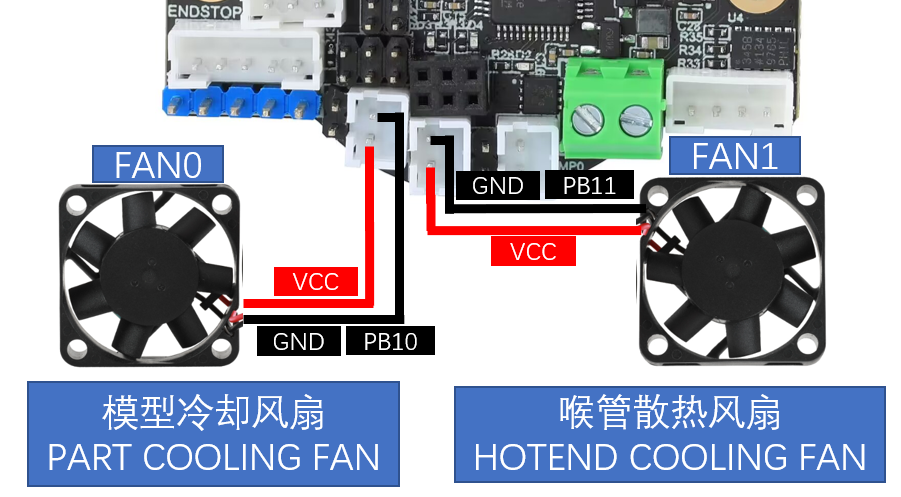
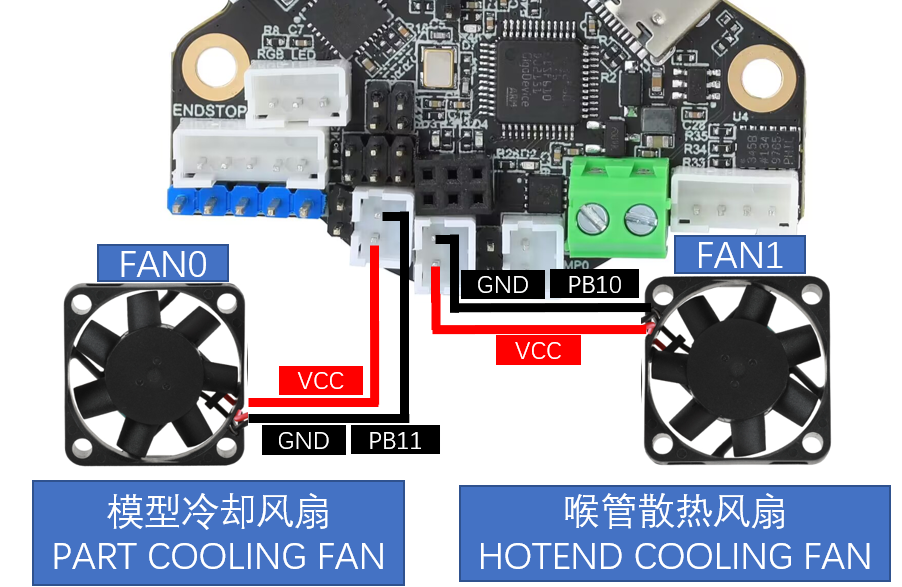
d5接线图更新&sht36v2接线图及文档修复

diff --git a/docs/board/fly_d5/wiring.md b/docs/board/fly_d5/wiring.md
@@ -1,1 +1,150 @@
-**正在制作**
+# 5. E3 v2接线
+
+> [!TIP]
+> 此教程以Voron 0.1为例介绍接线方法，请结合自己的实际使用情况接线
+
+## 5.1 接口图
+
+![interface](../../images/boards/fly_d5/interface.png)
+
+## 5.2 电源接线
+
+![power](../../images/boards/fly_d5/power.png)
+
+## 5.3  步进电机接线
+
+### 5.3.1 主板驱动跳线
+
+**STEP/DIR模式。**在这个模式下，通过使用跳线帽来设置细分，通过调节电位器来调整电流。最常见的是A4988驱动，使用这类驱动需要查询厂家提供的细分配置表，然后通过跳线帽来设置细分。
+
+**UART模式。**最常见的使用这种模式的驱动有：TMC2208、TMC2209、TMC2226等。这类驱动芯片可以与主控进行UART异步串行通信，可以通过修改配置文件来设置驱动的细分、运行电流、静音模式等。
+
+**SPI模式。**最常见的使用这种模式的驱动有：TMC5160、TMC2230等。这类驱动芯片通过spi与主控同步串行通信，同样的也可以通过修改配置文件来设置驱动的细分、运行电流、静音模式等。
+
+<img src="../../images/boards/fly_c8/dirve_dip.png" alt="dirve_dip" style="zoom:70%;" />
+
+### 5.3.2 驱动的安装
+
+驱动在安装前需要进行相应的检查，以免对驱动或主板造成损坏。
+
+**FLY驱动：**如果不使用无限位归零功能，请将拨码开关拨到1的位置；相反如果要使用无限位归零功能，请将拨码开关拨到ON的位置。
+
+![fly2209](../../images/boards/fly_super8/fly2209.png)
+
+**非FLY驱动：**如果是非FLY的驱动（下图为mks 2209），在安装之前需要剪掉图中两个引脚（这两个引脚为无限位归零引脚，不使用无限位归零功能则需要剪掉）。不同厂家的设计可能会有所区别，使用前请咨询相应厂家。
+
+![mks2209](../../images/boards/fly_super8/mks2209.png)
+
+**注意！！！ 安装驱动模块时，一定要保证插入的方向正确，即EN引脚在左上角，否则会损坏驱动甚至主板！！！注意给驱动贴好散热片！！！**
+
+<img src="../../images/boards/fly_c8/tmc_install.png" alt="tmc_install" style="zoom:80%;" />
+
+### 5.3.3 步进电机接线
+
+在3D打印机中，最常用的是两相四线步进电机，其原理如图所示。鉴别步进电机线序有两种方法：
+
+1. 短接步进电机四根线中任意两根线，用手转动电机轴，如果转动阻力很大，则这两根线为同一组线圈，即1A和1B或者2A和2B。如果和没有短接一样转起来很轻松，说明这两根线不是同一组线圈。
+
+2. 使用万用表的蜂鸣器档，测量四根线中任意两根，如果蜂鸣器响，则说明这两根线为同一组。反之，则不是同一组，需要更换其中一根线再次测量。
+
+![motorSCH](../../images/boards/fly_super8/motorSCH.png)
+
+<img src="../../images/boards/fly_d5/motor.png" alt="motor" style="zoom:80%;" />
+
+## 5.4  加热棒接线
+
+<img src="../../images/boards/fly_d5/heater.png" alt="heater" style="zoom:80%;" />
+
+## 5.5  热床接线
+
+**交流热床：**固态继电器在接线时，请注意输入和输出别接错了。
+
+<img src="../../images/boards/fly_super8/relay.png" alt="relay" style="zoom:75%;" />
+
+<img src="../../images/boards/fly_d5/ACbed.png" alt="ACbed" style="zoom:65%;" />
+
+**直流热床：**板载MOS接直流热床时请注意使用功率，直流热床最大电流不能超过10A。如果超过10A，建议使用外接MOS模块来使用热床，否则可能会对主板造成不可逆的损伤。
+
+<img src="../../images/boards/fly_d5/DCbed.png" alt="DCbed" style="zoom:65%;" />
+
+## 5.6  热敏电阻接线
+
+Super8提供了六路ADC接口，即可以接入六路热敏。热敏的接线方法如下图。热敏电阻的类型请咨询购买商家。
+
+如果为fly购买的（如下图所示），请将sensor_type 配置为：**ATC Semitec 104GT-2**。
+
+![semitec1](../../images/boards/fly_super8/semitec1.png)
+
+如果为常规的NTC 100K（如下图所示），请将sensor_type 配置为：**Generic 3950**
+
+<img src="../../images/boards/fly_super8/semitec2.png" alt="semitec2" style="zoom:70%;" />
+
+<img src="../../images/boards/fly_super8/semitec3.png" alt="semitec3" style="zoom:80%;" />
+
+**喷头热敏、热床热敏：**
+
+****
+
+<img src="../../images/boards/fly_d5/thermmistor.png" alt="thermmistor" style="zoom:80%;" />
+
+## 5.7 风扇接线
+
+**风扇接线。**
+
+> [!TIP]
+>
+> 下图红色框图框出来的接口，上下接口为同一个引脚控制的可控风扇，即一拖二
+
+<img src="../../images/boards/fly_d5/fan.png" alt="fan" style="zoom:80%;" />
+
+## 5.8  限位开关接线
+
+限位开关有常开（NO）和常闭（NC）两种。一般在3D打印机上，建议使用**常闭（NC）**，这样在限位开关线路出现问题时，系统会及时报错，可以避免一些不必要的撞车，避免损坏打印机。
+
+<img src="../../images/boards/fly_d5/endstop.png" alt="endstop" style="zoom:80%;" />
+
+## 5.9 调平传感器接线
+
+### 5.9.1 接近开关接线
+
+VORON官方建议是使用欧姆龙Omron TL-Q5MC（之前官方推荐的是PL08N，两者原理一样，只是探测距离不一样）传感器来进行热床调平。接线方式如下图所示。
+
+<img src="../../images/boards/fly_d5/pl08.png" alt="pl08" style="zoom:80%;" />
+
+### 5.9.2 BL-Touch接线
+
+BL-touch一共有五根线，三根为第一组，负责传感器的供电和探针的收放，第二组为地线和信号线，输出限位信号。BL-touch接线时请仔细核对线序，错误的接线可能会永久性损坏传感器和主板！！！接线方法如下图所示。
+
+<img src="../../images/boards/fly_d5/bltouch.png" alt="bltouch" style="zoom:80%;" />
+
+### 5.9.3 Klicky接线
+
+Klicky为第三方的调平传感器，能够用极低的成本自己在家制作，且性能稳定，性价比高，推荐使用。接线方法如下图所示。
+
+项目地址：[jlas1/Klicky-Probe: ](https://github.com/jlas1/Klicky-Probe "项目地址，点击即可跳转")
+
+<img src="../../images/boards/fly_d5/klicky.png" alt="klicky" style="zoom:80%;" />
+
+### 5.9.4 Voron Tap接线
+
+Tap是一种基于喷嘴的z探针，适用于V2和Trident打印机设计。整个工具头移动以触发光开关，精度比常规限位开关更好，可以使用几乎市面上所有的打印平台。
+
+> [!TIP]
+> Voron Tap不建议接 **24V** ，某些版本使用 **24V** 有一定概率会导致Tap传感器烧坏，这并非Fly产品的问题，是Voron Tap的设计缺陷，请悉知！！！
+
+**注意！！！5V和GND不能接反，否则会损坏Tap传感器甚至主板！！！**
+
+<img src="../../images/boards/fly_d5/tap.png" alt="tap" style="zoom:60%;" />
+
+## 5.10 FLY-Mini12864接线
+
+下图为FLY的mini12864的接线方式，其他厂家的屏幕请咨询相应厂家。Mini12864屏幕接接反，接错可能会导致上位机连不上MCU。如果使用mini12864屏幕之前可以正常连上主板的MCU，而使用mini12864后就连不上MCU了，请尝试拔出mini12864的接线！！！
+
+<img src="../../images/boards/fly_d5/mini12864.png" alt="mini12864" style="zoom:80%;" />
+
+## 5.11 连接到上位机
+
+主板通过TypeC接口连接到上位机的USB口，也可以用过串口连接到上位机。这里只对前者做介绍。
+
+<img src="../../images/boards/fly_d5/toπ.png" alt="toπ" style="zoom:80%;" />
+

diff --git a/docs/board/fly_d5/flash.md b/docs/board/fly_d5/flash.md
@@ -1,7 +1,7 @@
 # 3. 固件编译烧录
 
 > [!TIP]
-> FLY-D5 不需使用任何跳线但是需要按着**BOOT键**并且将type-c接入上位机才可以烧录固件
+> FLY-D5 需在断电状态下按住 **BOOT键** 后，使用Type-C数据线连接上位机，才能烧录固件
 
 ## 1. 固件编译
 
@@ -9,11 +9,11 @@
 
 这里只进行简要说明，完整编译步骤请查看：[编译klipper固件](/board/fly_super8/firmware?id=_1-编译klipper固件 "点击即可跳转")。
 
-* 普通USB固件配置
+**普通USB固件配置**
 
 ![usb](../../images/boards/fly_d5/usb.png)
 
-* USB桥接CAN固件配置
+**USB桥接CAN固件配置**
 
 ![usb](../../images/boards/fly_d5/can.png)
 

diff --git a/docs/board/fly_sht_v2/cfg.md b/docs/board/fly_sht_v2/cfg.md
@@ -145,7 +145,7 @@ initial_WHITE: 0.0          # 连接后会亮起来
 #####################################################################
 # PL08N感应探头不低于喷嘴高度，仅用于调平,如果你的PL08N是NO（常开），请将更改pin添加到！ 
 #[probe]
-#pin: ^sht36v2:PC15           # 信号接口
+#pin: ^sht36v2:PA1           # 信号接口
 #x_offset: 0                  # X轴-传感器相对喷嘴偏移量，需要自行确定偏移量
 #y_offset: 25.0               # Y轴-传感器相对喷嘴偏移量，需要自行确定偏移量
 #z_offset: 0                  # Z轴-传感器相对喷嘴偏移量，需要自行确定偏移量

diff --git a/docs/board/fly_C8/_sidebar.md b/docs/board/fly_C8/_sidebar.md
@@ -11,7 +11,7 @@
     * [9. SSH连接](/board/fly_C8/ssh.md)
     * [10. 固件烧录](/board/fly_C8/flash.md)
     * [11. 读取ID](/board/fly_C8/c8id.md)
-    * [12. 主板接线](/board/fly_C8/wiring.md)
+    * [**12. 主板接线**](/board/fly_C8/wiring.md)
     * [13. 参考配置](/board/fly_C8/cfg.md)
     * [14. ADXL345使用](/board/fly_C8/adxl345.md)
     * [15. 主控风扇使用](/board/fly_C8/corefan.md)

diff --git a/docs/board/fly_e3_v2/_sidebar.md b/docs/board/fly_e3_v2/_sidebar.md
@@ -1,7 +1,7 @@
 * FLY-E3 v2
 
   * [1. 产品简介](/board/fly_e3_v2/README.md)
-  * [2. E3 v2 接线](/board/fly_e3_v2/line.md)
+  * [**2. E3 v2 接线**](/board/fly_e3_v2/wiring.md)
   * [3. 连接到SSH](/board/fly_host/fly_pi/FLY_π_ssh)
   * [4. 固件编译和烧录](/board/fly_e3_v2/firmware.md)
   * [5. 读取主板ID](/board/fly_e3_v2/readid.md)

diff --git a/docs/board/fly_d5/pins.md b/docs/board/fly_d5/pins.md
@@ -2,10 +2,8 @@
 
 ## 1. FLY-D5接口说明
 
-
-
-
+![interface](../../images/boards/fly_d5/interface.png)
 
 ## 2. FLY-D5 pin脚说明
 
-![pin](../../images/boards/fly_d5/d5_pin.png)
+![pin](../../images/boards/fly_d5/pin.png)
